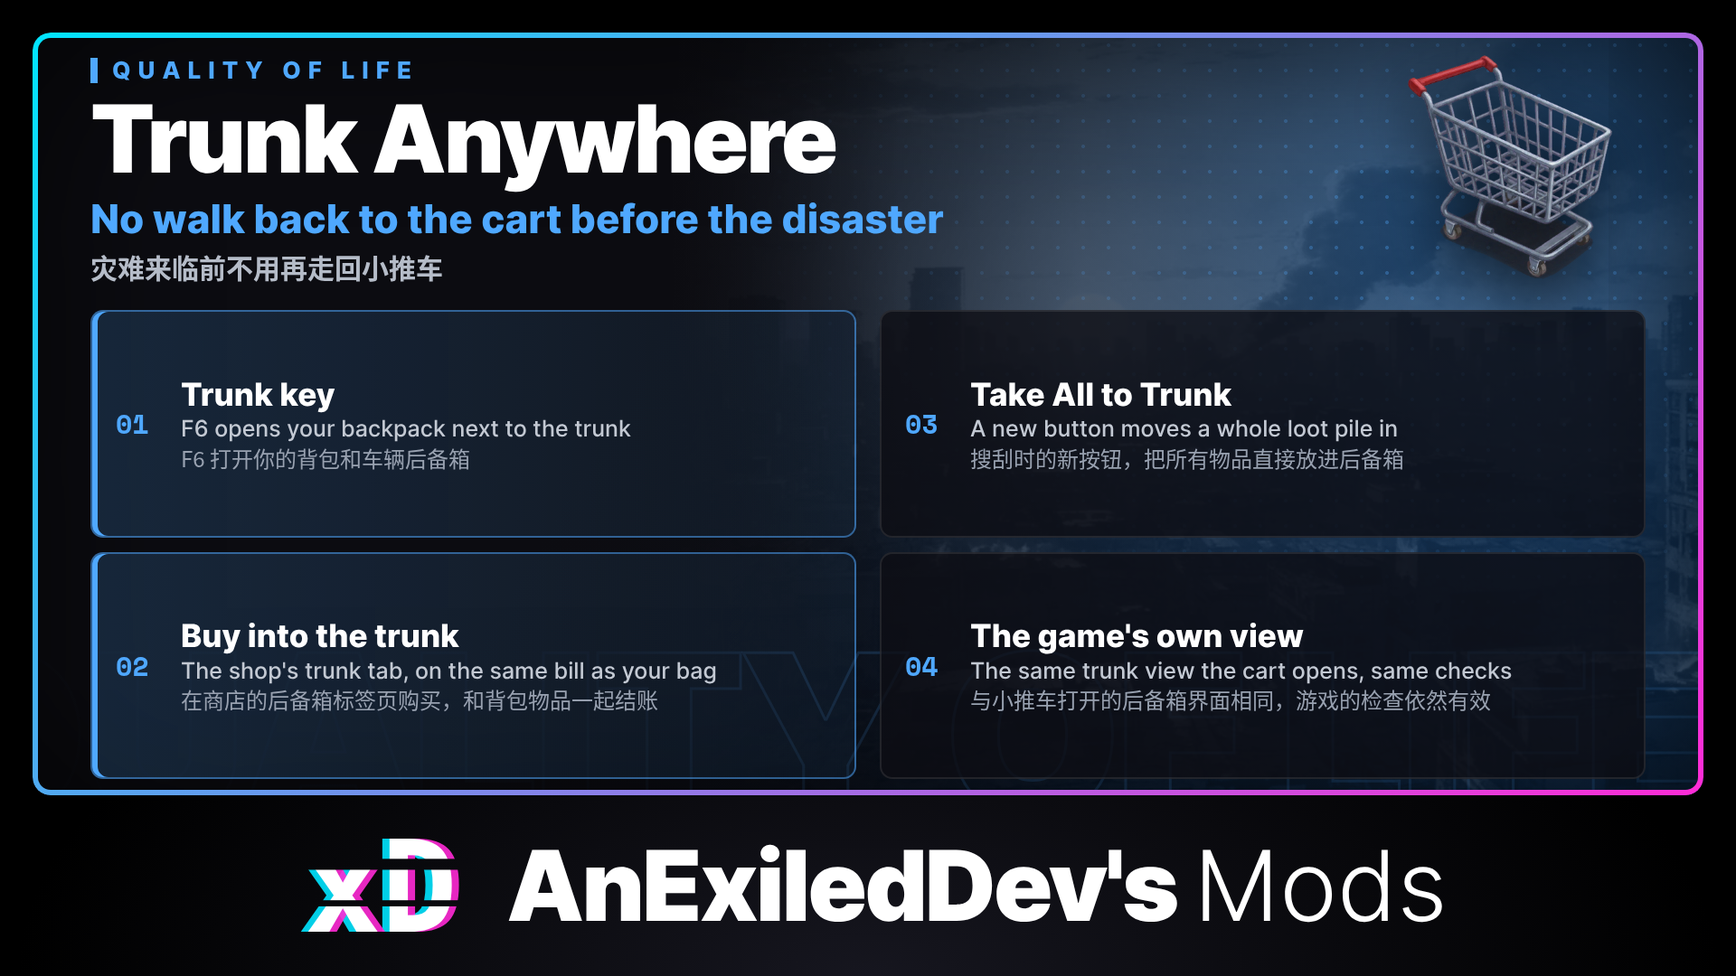
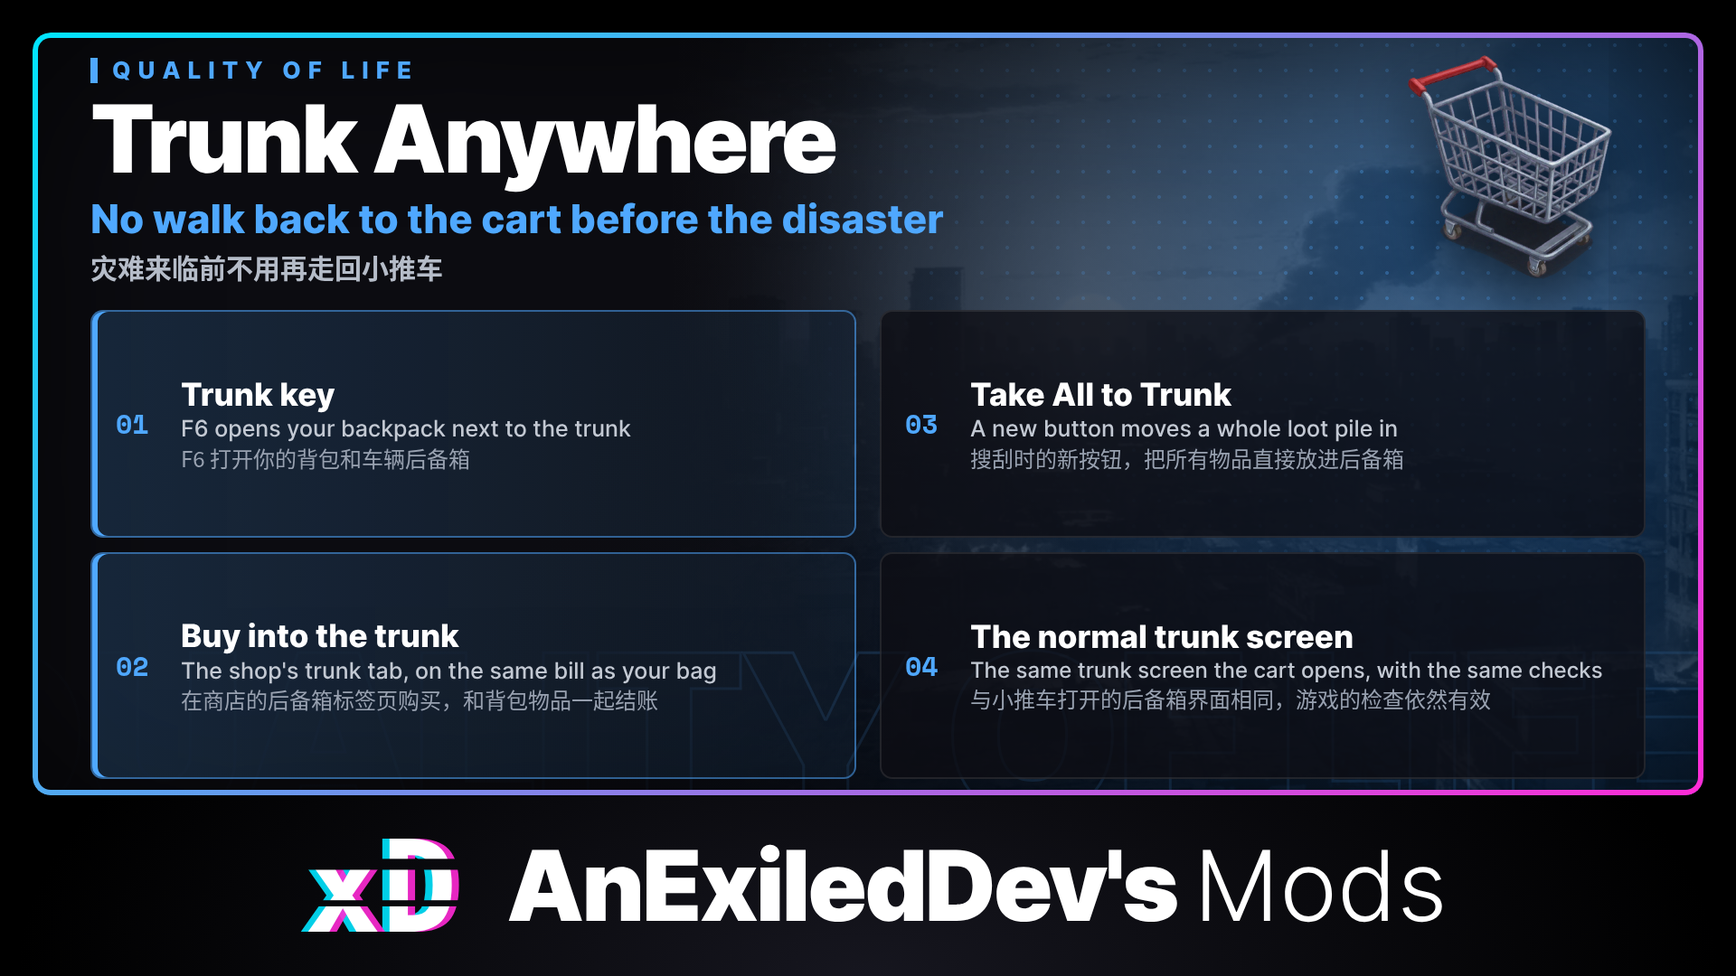
Trunk Anywhere 0.4.7: clearer wording
The two setting descriptions read more naturally in English and Chinese.
README, NEXUS.md, CONFIG.md and older changelog entries say what the mod does in plainer words, without semicolons or code terms.
game-versions.txt now lists 0.4.6 and 0.4.7.
New features image.

Changed region(s): [[0.5625, 0.6417, 0.9375, 0.7333]]

diff --git a/src/TrunkAnywhere/Plugin.cs b/src/TrunkAnywhere/Plugin.cs
@@ -16,13 +16,13 @@ namespace TrunkAnywhere;
 public sealed class Plugin : BasePlugin
 {
     private const string Guid = "com.dev.survivallog.trunkanywhere";
-    private const string Version = "0.4.6";
+    private const string Version = "0.4.7";
     private const long MaxLogBytes = 1024 * 1024;
 
     public override void Load()
     {
-        var trunkKey = Config.Bind("Controls", "TrunkKey", KeyCode.F6, "Key that opens the backpack and trunk view anywhere before the disaster, once you own a vehicle. It does nothing while a storage, shop or any other window is open, or while you type. None turns the key off.\n在灾难来临前、拥有车辆后，在任何地方打开背包和后备箱界面的按键。打开储物、商店或其他窗口时，或正在输入文字时不起作用。设为 None 可关闭此按键。");
-        var takeAll = Config.Bind("Looting", "TakeAllToTrunk", true, "Show the Take All to Trunk button under Take by Type when you loot with your trunk as one of the tabs. Off hides the button. Default: on.\n搜刮时如果后备箱是标签页之一，在「分类取出」下方显示「全部放进后备箱」按钮。关闭后不显示这个按钮。默认开启。");
+        var trunkKey = Config.Bind("Controls", "TrunkKey", KeyCode.F6, "The key that opens the backpack and trunk view from anywhere before the disaster, once you own a vehicle. It does nothing while a storage, a shop or any other window is open, or while you type. Set it to None to turn the key off.\n在灾难来临前、拥有车辆后，在任何地方打开背包和后备箱界面的按键。打开储物、商店或其他窗口时，或正在输入文字时不起作用。设为 None 可关闭此按键。");
+        var takeAll = Config.Bind("Looting", "TakeAllToTrunk", true, "Shows the Take All to Trunk button under Take by Type when you loot a container and your trunk is one of the tabs. Off hides the button. Default: on.\n搜刮容器时，如果后备箱是其中一个标签页，在「分类取出」下方显示「全部放进后备箱」按钮。关闭后不显示这个按钮。默认开启。");
         var log = new ModLog(Log, "trunk-anywhere.log") { MaxFileBytes = MaxLogBytes };
         var hooks = new PatchKit(new Harmony(Guid), log.Write);
         var session = new TrunkSession(new GameTrunk(log.Write), PageInbox.Listen(PageMessage.Prefix), log.Write);

diff --git a/NEXUS.md b/NEXUS.md
@@ -1,18 +1,18 @@
 Name: Trunk Anywhere
-Summary: Press F6 to open your vehicle's trunk next to your backpack from anywhere before the disaster, with no walk back to the cart. Buy from the shop straight into the trunk on the same bill, and move a whole loot pile into the trunk with the new Take All to Trunk button. Same trunk view and checks as the game's.
+Summary: Press F6 to open your vehicle's trunk next to your backpack from anywhere before the disaster, so you don't have to walk back to the cart. Buy from the shop straight into the trunk on the same bill, and move everything in a container into the trunk with the Take All to Trunk button while you loot. It's the same trunk view the cart opens.
 
 Description (BBCode):
 [center][img]https://sldb.core-directive.com/media/save/1-save-safe.png[/img][/center]
 
-Before the disaster, sorting your trunk means finding the cart and using its organize trunk action. Trunk Anywhere opens the same backpack and trunk view with one key, wherever you are.
+Before the disaster, sorting your trunk means finding the cart and using its Organize Trunk option. Trunk Anywhere opens the same backpack and trunk view with one key, wherever you are.
 
 [size=5]Main features[/size]
 [list]
 [*][b]Trunk key[/b]: F6 opens your backpack next to your vehicle's trunk.[/*]
-[*][b]Game's view[/b]: the same trunk view the cart opens, with the game's checks.[/*]
+[*][b]Same trunk view[/b]: it's the trunk view the cart opens, so everything in it works the way it normally does.[/*]
 [*][b]No dragging unpaid items in[/b]: you can't drag an unpaid item into the trunk. Pay for it first.[/*]
-[*][b]Buy into the trunk[/b]: the shop's trunk tab buys straight into the trunk, on the same bill as your bag.[/*]
-[*][b]Take All to Trunk[/b]: when looting with your trunk as a tab, a new button under Take by Type moves everything straight into the trunk. If the trunk fills up, the rest stays where it was. You can turn the button off in the config.[/*]
+[*][b]Buy into the trunk[/b]: buying on the shop's trunk tab puts the item straight into the trunk, on the same bill as your bag.[/*]
+[*][b]Take All to Trunk[/b]: when you loot a container and your trunk is one of the tabs, a new button under Take by Type moves everything straight into the trunk. If the trunk fills up, the rest stays in the container. You can turn the button off in the config.[/*]
 [/list]
 
 [size=5]Hotkeys[/size]
@@ -21,15 +21,15 @@ Before the disaster, sorting your trunk means finding the cart and using its org
 [/list]
 The key can be changed in the config.
 
-The mod adds no data of its own to your save. Items you move are moved the same way the game's trunk view moves them. You can remove it at any time.
+The mod doesn't add anything to your save. Items you move in the trunk view are saved the same way they are when you use the cart. You can remove the mod at any time.
 
 Works in English and Chinese.
 
 [size=5]Known issues[/size]
 [list]
 [*]The key does nothing while any other window is open, the settings menu included.[/*]
-[*]Only drags into the trunk are checked. An item from the trunk tab that is not yet paid for can still be moved inside the trunk or out of it.[/*]
-[*]Door boxes are not covered by the unpaid-item check.[/*]
+[*]Only drags into the trunk are checked. An item you picked on the shop's trunk tab but haven't paid for yet can still be moved around inside the trunk or out of it.[/*]
+[*]Door boxes don't count as the trunk, so the unpaid-item check doesn't cover them.[/*]
 [/list]
 
 [center][img]https://sldb.core-directive.com/img/mods-banner.jpg[/img]
@@ -56,11 +56,11 @@ Works in English and Chinese.
 Delete [font=Courier New]TrunkAnywhere.dll[/font] from the [font=Courier New]BepInEx\plugins[/font] folder.
 
 [size=5]Configuration[/size]
-To change the key, edit [font=Courier New]BepInEx\config\com.dev.survivallog.trunkanywhere.cfg[/font] while the game is closed, or do it in game on the Mod Manager's Mods screen, where changes take effect at once (see [url=https://github.com/AnExiledDev/SurvivalLog-TrunkAnywhere/blob/main/CONFIG.md]CONFIG.md[/url]; the cfg file explains each setting in English and Chinese).
+You can change the settings in game on the Mod Manager's Mods screen, where changes take effect at once, or edit [font=Courier New]BepInEx\config\com.dev.survivallog.trunkanywhere.cfg[/font] while the game is closed. The cfg file explains each setting in English and Chinese, and [url=https://github.com/AnExiledDev/SurvivalLog-TrunkAnywhere/blob/main/CONFIG.md]CONFIG.md[/url] lists them all.
 
 [size=5]Feedback[/size]
 Found a bug or have an idea? Come say hi on the [url=https://discord.gg/trTsyxUFqg]Core Directive Discord[/url], or post in this page's Posts tab. For bugs, please include [font=Courier New]BepInEx\LogOutput.log[/font] and [font=Courier New]BepInEx\trunk-anywhere.log[/font].
-To reach me directly, message [b]exiled.dev[/b] on Discord; you can find me in the [url=https://discord.gg/MZGg4gQAUe]official Survival Log Discord[/url]. I'm also on X as [url=https://x.com/AnExiledDev]@AnExiledDev[/url].
+To reach me directly, message [b]exiled.dev[/b] on Discord. You can find me in the [url=https://discord.gg/MZGg4gQAUe]official Survival Log Discord[/url]. I'm also on X as [url=https://x.com/AnExiledDev]@AnExiledDev[/url].
 
 [size=5]Source and license[/size]
 Open source under MIT: [url=https://github.com/AnExiledDev/SurvivalLog-TrunkAnywhere]github.com/AnExiledDev/SurvivalLog-TrunkAnywhere[/url]
@@ -73,10 +73,10 @@ Open source under MIT: [url=https://github.com/AnExiledDev/SurvivalLog-TrunkAnyw
 [size=5]主要功能[/size]
 [list]
 [*][b]后备箱按键[/b]：F6 打开你的背包和车辆后备箱。[/*]
-[*][b]游戏自己的界面[/b]：与小推车打开的后备箱界面相同，游戏自己的检查依然有效。[/*]
+[*][b]同样的后备箱界面[/b]：就是小推车打开的那个后备箱界面，里面的操作都和平时一样。[/*]
 [*][b]不能拖入未付款物品[/b]：不能把未付款的物品拖进后备箱，请先付款。[/*]
 [*][b]直接买进后备箱[/b]：在商店的后备箱标签页购买，物品直接放进后备箱，和背包里的物品一起结账。[/*]
-[*][b]「全部放进后备箱」[/b]：搜刮时如果后备箱是标签页之一，「分类取出」下方会出现一个新按钮，把所有物品直接放进后备箱。后备箱装满后，剩下的物品留在原处。可以在配置中关闭这个按钮。[/*]
+[*][b]「全部放进后备箱」[/b]：搜刮容器时，如果后备箱是其中一个标签页，「分类取出」下方会出现一个新按钮，把容器里的所有物品直接放进后备箱。后备箱装满后，剩下的物品留在容器里。可以在配置中关闭这个按钮。[/*]
 [/list]
 
 [size=5]快捷键[/size]
@@ -85,15 +85,15 @@ Open source under MIT: [url=https://github.com/AnExiledDev/SurvivalLog-TrunkAnyw
 [/list]
 可以在配置中修改按键。
 
-模组不会往存档里写入自己的数据。移动的物品与游戏自己的后备箱界面移动方式相同。你可以随时移除它。
+本模组不会往存档里添加任何东西。在后备箱界面移动的物品，保存方式和用小推车时一样。你可以随时移除本模组。
 
 支持英文和中文。
 
 [size=5]已知问题[/size]
 [list]
 [*]打开任何其他窗口时（包括设置菜单），按键不起作用。[/*]
-[*]只检查拖进后备箱的操作。在后备箱标签页选购、还没付款的物品，仍然可以在后备箱里移动或取出。[/*]
-[*]门口箱子不受未付款物品检查。[/*]
+[*]只检查拖进后备箱的操作。在商店后备箱标签页选好、还没付款的物品，仍然可以在后备箱里挪动或取出。[/*]
+[*]门口箱子不算后备箱，所以未付款物品的检查管不到它。[/*]
 [/list]
 
 [url=https://www.nexusmods.com/survivallog/mods/73]获取 Mod Manager[/url]，在游戏里设置所有模组。[url=https://sldb.core-directive.com/zh/]打开 Survival Log 维基[/url]，物品、配方、地图一查就有。
@@ -119,7 +119,7 @@ Open source under MIT: [url=https://github.com/AnExiledDev/SurvivalLog-TrunkAnyw
 从 [font=Courier New]BepInEx\plugins[/font] 文件夹中删除 [font=Courier New]TrunkAnywhere.dll[/font]。
 
 [size=5]配置[/size]
-可以在游戏内 Mod Manager 的「模组」界面修改，改动立即生效；也可以在游戏关闭时编辑 [font=Courier New]BepInEx\config\com.dev.survivallog.trunkanywhere.cfg[/font]。配置文件中每项设置都有中文说明，完整说明见 [url=https://github.com/AnExiledDev/SurvivalLog-TrunkAnywhere/blob/main/CONFIG.md]CONFIG.md[/url]（英文）。
+可以在游戏内 Mod Manager 的「模组」界面修改，改动立即生效，也可以在游戏关闭时编辑 [font=Courier New]BepInEx\config\com.dev.survivallog.trunkanywhere.cfg[/font]。配置文件中每项设置都有中文说明，完整说明见 [url=https://github.com/AnExiledDev/SurvivalLog-TrunkAnywhere/blob/main/CONFIG.md]CONFIG.md[/url]（英文）。
 
 [size=5]反馈[/size]
 发现 bug 或有好点子？欢迎来 [url=https://discord.gg/trTsyxUFqg]Core Directive Discord[/url] 打个招呼，或在本页的「Posts」标签里发帖。报告 bug 时，请附上 [font=Courier New]BepInEx\LogOutput.log[/font] 和 [font=Courier New]BepInEx\trunk-anywhere.log[/font]。

diff --git a/README.md b/README.md
@@ -2,18 +2,18 @@
 
 One key opens your vehicle's trunk from anywhere before the disaster.
 
-Before the disaster, the only way to sort your trunk is the cart's organize trunk action, and you can't always reach it. Trunk Anywhere opens the same backpack and trunk view with a single key, wherever you are. It also stops unpaid shop items being dragged into the trunk.
+Before the disaster, the only way to sort your trunk is the cart's Organize Trunk option, and the cart isn't always nearby. Trunk Anywhere opens the same backpack and trunk view with a single key, wherever you are. It also stops you from dragging unpaid shop items into the trunk.
 
 ## Features
 
-- **Trunk key**: press `F6` to open your backpack beside your vehicle's trunk, wherever you are. It uses the game's trunk view, the same one the cart's organize trunk action opens, so the game's checks apply.
-- **Works from your backpack**: if your own backpack is already open, it closes and the trunk view opens in its place.
-- **No dragging unpaid items in**: dragging an unpaid item into the trunk does nothing. The item stays where it was and a message says "Pay for it first: unpaid items can't be moved into the trunk." This check sits where the game moves any item between inventories, so it holds for every drag.
-- **Buy straight into the trunk**: buying on the shop's trunk tab works as it does in the game. The item goes into the trunk and onto the same bill as your bag, and you pay for both together.
-- **Take All to Trunk**: when you loot a storage or container and your trunk is one of the tabs on the left, a Take All to Trunk button sits right under Take by Type. It moves everything in the container straight into the trunk, without switching tabs, using the game's Take All move. It is greyed out when the container is empty and hidden while the trunk tab is the one shown, where the game's Take All already fills the trunk. If the trunk fills up, the rest stays in the container and the game says so. If the container holds an unpaid item, nothing moves and the "Pay for it first" message shows. `TakeAllToTrunk` in the config turns the button off.
-- **Log file**: every key press and Take All to Trunk press and what came of it, and every unpaid item kept out of the trunk, is written to `BepInEx\trunk-anywhere.log`.
+- **Trunk key**: press `F6` to open your backpack next to your vehicle's trunk, wherever you are. It's the same trunk view the cart's Organize Trunk option opens, so everything in it works the way it normally does.
+- **Works from your backpack**: if your backpack is already open, it closes and the trunk view opens in its place.
+- **No dragging unpaid items in**: dragging an unpaid item into the trunk does nothing. The item stays where it was and a message says "Pay for it first: unpaid items can't be moved into the trunk." This works for every drag into the trunk.
+- **Buy straight into the trunk**: buying on the shop's trunk tab works like it does without the mod. The item goes into the trunk and onto the same bill as your bag, and you pay for both together.
+- **Take All to Trunk**: when you loot a storage or container and your trunk is one of the tabs on the left, a Take All to Trunk button shows up right under Take by Type. It moves everything in the container straight into the trunk, so you don't have to switch tabs. The button is greyed out when the container is empty. It's hidden while the trunk tab is the one showing, since the game's Take All already puts things in the trunk there. If the trunk fills up, the rest stays in the container and the game tells you. If the container holds an unpaid item, nothing moves and the "Pay for it first" message shows. You can turn the button off with `TakeAllToTrunk` in the config.
+- **Log file**: `BepInEx\trunk-anywhere.log` gets a line for every press of the key or the Take All to Trunk button, saying what happened. It also notes every unpaid item the mod kept out of the trunk.
 
-Trunk Anywhere adds no data of its own to your save. Items you move with the trunk view are moved in your save the same way the game's trunk view moves them. You can remove the mod at any time; the trunk and everything in it stay as they are.
+Trunk Anywhere doesn't add anything to your save. Items you move in the trunk view are saved the same way they are when you use the cart. You can remove the mod at any time, and the trunk and everything in it stay as they are.
 
 ## Hotkeys
 
@@ -23,23 +23,23 @@ Trunk Anywhere adds no data of its own to your save. Items you move with the tru
 
 The key does nothing (apart from one line in the log) when:
 
-- you have not bought a vehicle;
-- any inventory other than your own backpack is open: a storage, a station, or the trunk itself;
-- any other window is open: a shop, a trade, a menu;
-- you are typing in a text field, or the game has turned its own hotkeys off;
-- the disaster has already happened, or no game is loaded.
+- You haven't bought a vehicle.
+- Any inventory other than your backpack is open, like a storage, a station or the trunk itself.
+- Any other window is open, like a shop, a trade or a menu.
+- You're typing in a text field, or the game has its hotkeys switched off at that moment.
+- The disaster has already happened, or no game is loaded.
 
 The key can be changed or turned off in the config.
 
 ## Known issues and limits
 
-- Any window the game treats as blocking stops the key, the settings menu included.
-- Only drags into the trunk are checked. An item from the shop's trunk tab that is not yet paid for is not stopped from being moved inside the trunk or out of it.
-- Door boxes are not the trunk and are not guarded against unpaid items.
+- The key does nothing while any other window is open, the settings menu included.
+- Only drags into the trunk are checked. An item you picked on the shop's trunk tab but haven't paid for yet can still be moved around inside the trunk or out of it.
+- Door boxes don't count as the trunk, so the unpaid-item check doesn't cover them.
 
 ## Requirements
 
-- Survival Log 1.1.20719. Built and tested on this version; a game update can break it until the mod is updated.
+- Survival Log 1.1.20719. It's built and tested on this version, and a game update can break it until the mod is updated.
 - The [BepInEx Pack for Survival Log](https://www.nexusmods.com/survivallog/mods/12), the BepInEx 6 (IL2CPP) build for the game.
 - [Exiled's Toolkit](https://github.com/AnExiledDev/SurvivalLog-ExiledToolkit) 0.19.0 or newer. Trunk Anywhere does not load without it. It applies settings changed on the Mod Manager's Mods screen without restarting the game.
 - Optional: [Mod Manager](https://www.nexusmods.com/survivallog/mods/73). With it, you can change every setting in game on its Mods screen and see what each one does, without opening the config file.
@@ -66,13 +66,13 @@ The Take All to Trunk button and the unpaid-item message follow the game's langu
 
 Tested on Survival Log 1.1.20719 with BepInEx `6.0.0-be.788`.
 
-Check `BepInEx\LogOutput.log` for `===== Trunk Anywhere 0.4.6 started`, followed by `trunk key F6`. The same lines, plus one line for every press of the key saying what happened and why, is in `BepInEx\trunk-anywhere.log`, which survives restarts. If the key seems to do nothing, that file says which of the reasons above stopped it.
+Check `BepInEx\LogOutput.log` for `===== Trunk Anywhere 0.4.7 started`, followed by `trunk key F6`. `BepInEx\trunk-anywhere.log` has the same lines, plus one line for every press of the key saying what happened and why, and it's kept between restarts. If the key seems to do nothing, that file says which of the reasons above stopped it.
 
 ## Feedback and bug reports
 
 Found a bug, have an idea, or something feels off? Come say so on the Core Directive Discord: https://discord.gg/trTsyxUFqg . You can also post in the Posts tab of the mod's Nexus Mods page. When reporting a bug, attach `BepInEx\LogOutput.log` and `BepInEx\trunk-anywhere.log`.
 
-To reach me directly, message `exiled.dev` on Discord; you can find me in the [official Survival Log Discord](https://discord.gg/MZGg4gQAUe). I'm also on X as [@AnExiledDev](https://x.com/AnExiledDev).
+To reach me directly, message `exiled.dev` on Discord. You can find me in the [official Survival Log Discord](https://discord.gg/MZGg4gQAUe). I'm also on X as [@AnExiledDev](https://x.com/AnExiledDev).
 
 A Survival Log wiki with detailed documentation for all of my mods is coming soon.
 

diff --git a/CHANGELOG.md b/CHANGELOG.md
@@ -1,5 +1,10 @@
 # Changelog
 
+## 0.4.7
+
+- Clearer wording in the settings.
+- Made for Survival Log 1.1.20719.
+
 ## 0.4.6
 
 - The log file `BepInEx\trunk-anywhere.log` no longer grows without limit. Past 1 MB, the older part moves to `trunk-anywhere.log.1`.
@@ -7,12 +12,12 @@
 
 ## 0.4.5
 
-- Now uses Exiled's Toolkit for its shared parts, so it needs Exiled's Toolkit 0.19.0 or newer.
+- Trunk Anywhere now needs Exiled's Toolkit 0.19.0 or newer.
 - Made for Survival Log 1.1.20719.
 
 ## 0.4.4
 
-- New `[Looting] TakeAllToTrunk` setting turns the Take All to Trunk button off. It is on by default, and a change takes effect at once.
+- A new setting, `[Looting] TakeAllToTrunk`, lets you turn the Take All to Trunk button off. It's on by default, and a change takes effect at once.
 - Made for Survival Log 1.1.20719.
 
 ## 0.4.3
@@ -22,7 +27,7 @@
 
 ## 0.4.2
 
-- Updated for Survival Log 1.1.19611, which changed how the game checks its own hotkeys.
+- Updated for Survival Log 1.1.19611, which changed how the game checks its hotkeys.
 - Made for Survival Log 1.1.19611.
 
 ## 0.4.1
@@ -39,7 +44,7 @@
 
 ## 0.3.0
 
-- Fixed: the shop's trunk tab buys straight into the trunk again, the same as without the mod. Those items go on the same bill as your bag.
+- Fixed: buying on the shop's trunk tab puts the item straight into the trunk again, like it does without the mod. Items bought there go on the same bill as your bag.
 - You still can't drag an unpaid item into the trunk.
 
 ## 0.2.1

diff --git a/CONFIG.md b/CONFIG.md
@@ -6,7 +6,7 @@ Settings live in `BepInEx\config\com.dev.survivallog.trunkanywhere.cfg`, created
 
 | Setting | Default | What it does |
 | --- | --- | --- |
-| `TrunkKey` | `F6` | Key that opens the backpack and trunk view anywhere before the disaster, once you own a vehicle. It does nothing while a storage, shop or any other window is open, or while you type. |
+| `TrunkKey` | `F6` | The key that opens the backpack and trunk view from anywhere before the disaster, once you own a vehicle. It does nothing while a storage, a shop or any other window is open, or while you type. |
 
 The value is a Unity key name, for example `F6`, `F7`, `T` or `Keypad5`. Set it to `None` to turn the key off.
 
@@ -14,4 +14,4 @@ The value is a Unity key name, for example `F6`, `F7`, `T` or `Keypad5`. Set it 
 
 | Setting | Default | What it does |
 | --- | --- | --- |
-| `TakeAllToTrunk` | `true` | Show the Take All to Trunk button under Take by Type when you loot with your trunk as one of the tabs. `false` hides the button. |
+| `TakeAllToTrunk` | `true` | Shows the Take All to Trunk button under Take by Type when you loot a container and your trunk is one of the tabs. `false` hides the button. |
